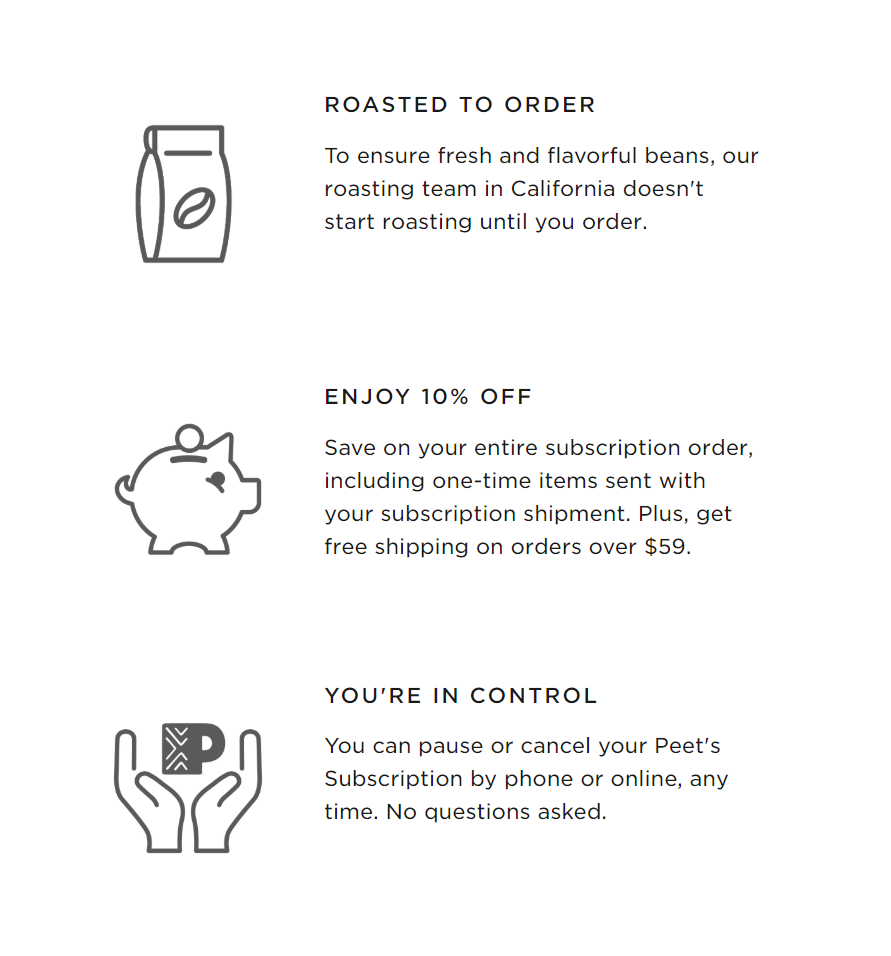
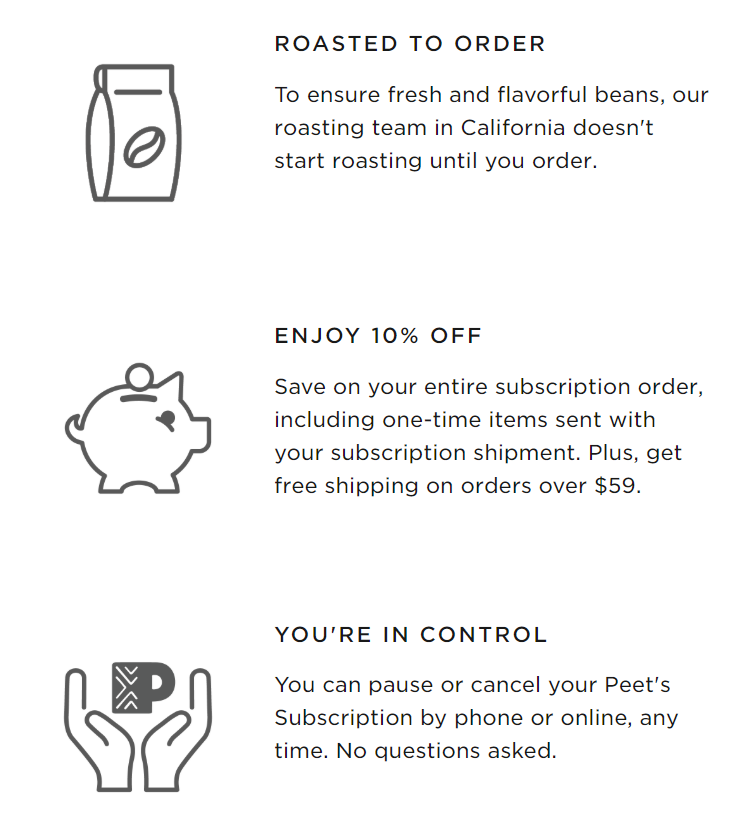
correct css on shop, location, and order portion of file

diff --git a/css/output.css b/css/output.css
@@ -159,36 +159,43 @@ nav a {
 .coffee-click {
   display: flex;
   flex-direction: row;
-  width: 100%; }
-
-.text2 {
-  font-family: 'Nunito', sans-serif;
-  display: flex;
-  flex-direction: column;
-  width: 50%;
-  padding-top: 2rem;
-  margin-top: 4.5rem; }
-  .text2 #coffee-bags {
-    width: 60%;
-    height: 30%;
-    align-self: center;
-    margin-bottom: 1.5rem; }
-  .text2 h1 {
-    text-align: center;
-    font-family: 'Nunito', sans-serif; }
-  .text2 p {
+  align-items: center;
+  margin-left: 2.5rem;
+  margin-right: 2.5rem;
+  width: 90vw; }
+  .coffee-click .text2 {
     font-family: 'Nunito', sans-serif;
-    text-transform: uppercase;
-    text-align: center;
-    margin-left: .45em;
-    margin-right: .45em; }
-  .text2 .order {
-    width: 50%; }
-    .text2 .order .signage {
-      width: 100%; }
+    display: flex;
+    flex-direction: column;
+    width: 45vw;
+    margin-top: 1.5rem;
+    margin-bottom: 4.5rem;
+    background-color: yellow; }
+    .coffee-click .text2 #coffee-bags {
+      width: 60%;
+      height: 30%;
+      align-self: center;
+      margin-bottom: 1.5rem; }
+    .coffee-click .text2 h1 {
+      text-align: center;
+      font-family: 'Nunito', sans-serif; }
+    .coffee-click .text2 p {
+      font-family: 'Nunito', sans-serif;
+      text-transform: uppercase;
+      text-align: center;
+      margin-left: .45em;
+      margin-right: .45em; }
+  .coffee-click .order {
+    width: 50vw; }
+    .coffee-click .order .signage {
+      width: 80%;
+      padding-top: .50rem;
+      padding-bottom: .50rem;
+      padding-left: .50rem;
+      padding-right: .50rem; }
 
 #location {
-  width: 45%; }
+  width: 50%; }
 
 .team {
   margin-top: 1rem; }

diff --git a/scss/styles.scss b/scss/styles.scss
@@ -209,7 +209,7 @@ nav {
     flex-direction: column;
     justify-content: center;
     width: 100%;
-    
+
     .vl-1 {
       background-color: $brown;
       width: 10rem;
@@ -252,17 +252,21 @@ nav {
 .coffee-click {
   display: flex;
   flex-direction: row;
-  width: 100%;
-}
+  align-items: center;
+  margin-left: 2.5rem;
+  margin-right: 2.5rem;
+  width: 90vw;
 
 
   .text2 {
       @include nunito;
       display: flex;
       flex-direction: column;
-      width: 50%;
-      padding-top: 2rem;
-      margin-top: 4.5rem;
+      width: 45vw;
+      // padding-top: 2rem;
+      margin-top: 1.5rem;
+      margin-bottom: 4.5rem;
+      background-color: yellow;
 
       #coffee-bags {
         width: 60%;
@@ -283,19 +287,23 @@ nav {
         margin-left: .45em;
         margin-right: .45em;
       }
-
+    }
 
   .order {
-    width: 50%;
+      width: 50vw;
 
     .signage {
-      width: 100%;
+      width: 80%;
+      padding-top: .50rem;
+      padding-bottom: .50rem;
+      padding-left: .50rem;
+      padding-right: .50rem;
     }
   }
 }
 
 #location {
-    width: 45%;
+    width: 50%;
 }
 
 .team {
